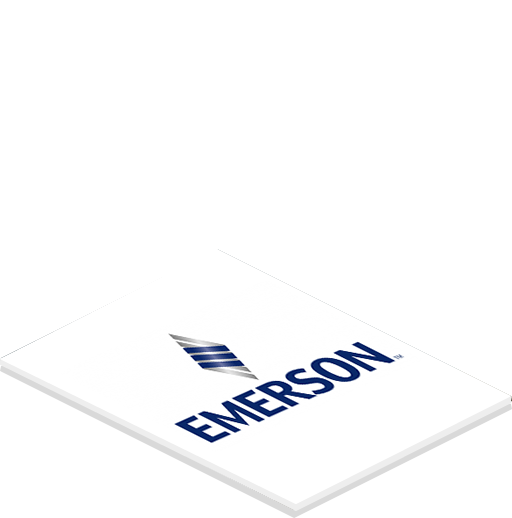
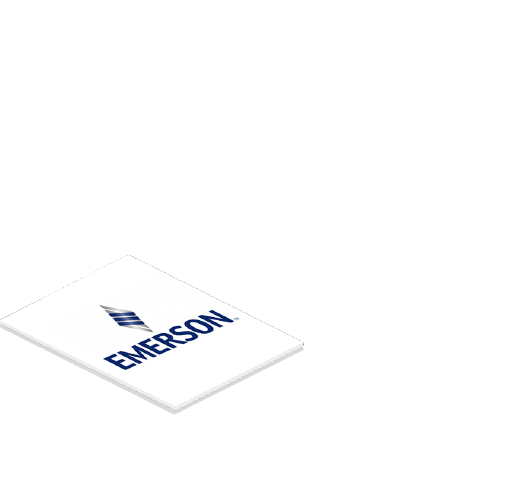
1.13
crew

diff --git a/SF_SAMPLE__iDqjw/index.html b/SF_SAMPLE__iDqjw/index.html
@@ -101,11 +101,18 @@
                     <img src="startup/common-files/img/content/board-2.png" width="974" height="533" alt="">
                     <img src="startup/common-files/img/content/board-3.png" width="512" height="549" alt="">
                     <img src="startup/common-files/img/content/board-4.png" width="653" height="367" alt="">
+                    <img style="margin-left: -43px;
+margin-top: -83px;" src="startup/common-files/img/content/board-04.png" width="653" height="367" alt="">
                     <img src="startup/common-files/img/content/board-5.png" width="952" height="267" alt="">
                     <img src="startup/common-files/img/content/board-6.png" width="512" height="518" alt="">
                     <img src="startup/common-files/img/content/board-7.png" width="512" height="488" alt="">
-                    <img src="startup/common-files/img/content/board-9.png" width="834" height="713" alt="">
-                    <img src="startup/common-files/img/content/board-8.png" width="500" height="713" alt="">
+                    <img style="margin-left: -300px;
+margin-top: -21px;" src="startup/common-files/img/content/board-9.png" width="834" height="713" alt="">
+                    <img style="margin-left: -28px;
+margin-top: -21px;" src="startup/common-files/img/content/board-8.png" width="500" height="713" alt="">
+                    <img style="margin-left: -230px;"src="startup/common-files/img/content/board-05-04.png" width="500" height="713" alt="">
+                    <img style="margin-left: -271px;
+margin-top: -161px;margin-left: -230px;"src="startup/common-files/img/content/board-06-04.png" width="500" height="713" alt="">
                     
                     <!--<img src="startup/common-files/img/content/board-10.png" width="974" height="533" alt="">
                     <img src="startup/common-files/img/content/board-11.png" width="512" height="549" alt="">
@@ -199,15 +206,16 @@
         <div class="container">
             <div class="row">
                 <div class="col-sm-6 aligment">
+                    <div class="img">
+                        <img src="startup/common-files/img/content/vf30_c_550.png" alt="">
+                    </div>
+                </div>
+                <div class="col-sm-6">
                     <h3>Seguridad Centralizada</h3>
                     <p>
                         La seguridad dejó de ser un problema exclusivo del gerente. Hoy en día, la seguridad es una preocupación que concierne a todos, ya que afecta a muchos aspectos de la organización, como por ejemplo productividad, cumplimiento de la normativa vigente y prestigio de la empresa.
                     </p>
-                </div>
-                <div class="col-sm-6">
-                    <div class="img">
-                        <img src="startup/common-files/img/content/vf30_c_550.png" alt="">
-                    </div>
+                
                 </div>
             </div>
         </div>
@@ -305,16 +313,17 @@ Los adelantos de las comunicaciones móviles son un factor clave a la hora de am
         <div class="container">
             <div class="row">
                 <div class="col-sm-6 aligment">
+                     <div class="img">
+                        <img src="startup/common-files/img/content/client_server.png" alt="">
+                    </div>
+                </div>
+                <div class="col-sm-6">
                     <h3>We’ve created the product that will help your startup to look better.</h3>
                     <p>
                         Startup Design Framework contains components and complex blocks which can easily be
                         integrated into almost any design. Responsive layout, clear grid, retina ready.
                     </p>
-                </div>
-                <div class="col-sm-6">
-                    <div class="img">
-                        <img src="startup/common-files/img/content/client_server.png" alt="">
-                    </div>
+                   
                 </div>
             </div>
         </div>
@@ -368,7 +377,7 @@ Los adelantos de las comunicaciones móviles son un factor clave a la hora de am
                 </div>
                 <div class="col-sm-6">
                     <div class="img">
-                        <img src="startup/common-files/img/content/cables.jpg" alt="">
+                        <img src="startup/common-files/img/content/Cables.jpg" alt="">
                     </div>
                 </div>
             </div>

diff --git a/SF_SAMPLE__iDqjw/static/css/style.css b/SF_SAMPLE__iDqjw/static/css/style.css
@@ -2501,7 +2501,7 @@ section * {
 .content-22 .img {
   position: absolute;
   top: 0;
-  left: 2%;
+  left: 62%;
 }
 .content-22 .img img {
   max-width: none;
@@ -2568,6 +2568,24 @@ section * {
   -moz-transition-delay: 2.4s;
   -o-transition-delay: 2.4s;
   transition-delay: 2.4s;
+}
+.content-22.ani-processed .img img:nth-child(9) {
+  -webkit-transition-delay: 2.8s;
+  -moz-transition-delay: 2.8s;
+  -o-transition-delay: 2.8s;
+  transition-delay: 2.8s;
+}
+.content-22.ani-processed .img img:nth-child(10) {
+  -webkit-transition-delay: 2.9s;
+  -moz-transition-delay: 2.9s;
+  -o-transition-delay: 2.9s;
+  transition-delay: 2.9s;
+}
+.content-22.ani-processed .img img:nth-child(11) {
+  -webkit-transition-delay: 3.0s;
+  -moz-transition-delay: 3.0s;
+  -o-transition-delay: 3.0s;
+  transition-delay: 3.0s;
 }
 @media (max-width: 480px) {
   .content-22 .description {
